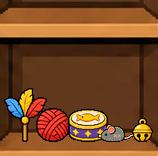
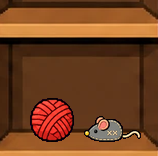
Tofu's cupboard shows just the ball of yarn and the felt mouse on its shelf

Changed region(s): [[0.0253, 0.5641, 0.9873, 0.9231]]

diff --git a/js/cupboard.js b/js/cupboard.js
@@ -1,6 +1,6 @@
 'use strict';
 /* TOFU'S CUPBOARD (Jackie, Nov 18: the star door at the bottom of the right bookcase is "Tofu's cupboard"; the toys are Jackie's sheet,
-   Nov 23). A tap opens it (the star door is out of the way and the toys show standing inside) and a small tray holds what is kept inside: a ball of yarn, a felt mouse, a feather wand, a jingle
+   Nov 23). A tap opens it (the star door is out of the way and a couple of the toys show inside) and a small tray holds what is kept inside: a ball of yarn, a felt mouse, a feather wand, a jingle
    ball and a tin of cat treats. Press one and drag it to the cat, as a treat is dragged to a monster. What the cat does is posture
    only, from its own drawn poses (play bow, pounce, stalk, leap, eating): never an expression.
    - A cat that trusts you plays with it for a couple of seconds, then sits. It will wake up for a toy.

diff --git a/tools/room_build.py b/tools/room_build.py
@@ -251,12 +251,12 @@ def build_cupboard():
     """Tofu's cupboard, open (sheet5.png), and the toys kept in it, each cut out whole.
     Jackie, Nov 25: "it looks strange when the cat food door opens. and empty". The drawing's door is seen at an angle the room is not, so
     it is left out: open, the star door is simply out of the way and the inside shows. The inside is the drawing's lower shelf and what is
-    under it, sized to cover the star door, with the five toys standing in it at a small size, so it is never an empty box."""
+    under it, sized to cover the star door, with a couple of the toys in it (the ball of yarn and the felt mouse), so it is not an empty box."""
     sh=load('sheet5.png');inside=Image.fromarray(sh[316:474,210:364].astype(np.uint8),'RGB').resize((158,156),Image.LANCZOS).convert('RGBA') # between the bookcase's own posts
     toys={'yarn':(757,275,259,185),'mouse':(1088,292,301,140),'wand':(122,646,219,271),'bell':(1170,710,133,155),'tin':(446,714,200,168),'tin_open':(747,718,307,164),'yarn_ball':(484,275,170,172)}
     for n,(x,y,w,h) in toys.items():cut(sh,x,y,w,h,.8,holes=True).save(os.path.join(ROOT,'cub_'+n+'.png'),optimize=True)
     floor=156-14 # the cupboard's floor in the picture: the toys stand on it. name: (left, size)
-    for n,(left,sc) in {'wand':(4,.2),'yarn_ball':(36,.2),'tin':(68,.2),'mouse':(98,.13),'bell':(132,.16)}.items():
+    for n,(left,sc) in {'yarn_ball':(30,.26),'mouse':(84,.19)}.items(): # just a couple (Jackie, Nov 25); all five are still on the tray
         x,y,w,h=toys[n];t=cut(sh,x,y,w,h,sc,holes=True);inside.alpha_composite(t,(left,floor-t.height))
     inside.save(os.path.join(ROOT,'obj_cup_open.png'),optimize=True)
     return {'cup_open':[inside.width,inside.height]}

diff --git a/DECISIONS.md b/DECISIONS.md
@@ -17,7 +17,7 @@ Everything Jackie has decided about Monster Plant, with the reason. Add new entr
 - "Gold coins don't bounce on regular surfaces": the jar's coins bounced on one line at shelf height right across the room. A coin over the bookcase now lands on the jar's shelf; one that goes past the bookcase's edge falls to the floor and bounces there.
 - "The crystal ball is slightly offset when it activates": the mist pictures were about 3% smaller than the painted ball and sat a few pixels low. They are resized and placed so the glass is exactly over the painted glass.
 - "kids should be smaller, and teens relative to them": a kid is about a fifth smaller (the adult's height over 2.4, where it was over 1.9) and a teen is one and a half kids. Adults are unchanged.
-- "it looks strange when the cat food door opens. and empty": the drawn door was seen at an angle the room is not, so it is left out. Open, the star door is simply out of the way, and the five toys stand inside.
+- "it looks strange when the cat food door opens. and empty": the drawn door was seen at an angle the room is not, so it is left out. Open, the star door is simply out of the way. Five toys inside was too many ("maybe put like just a couple of toys in the shelf"), so the ball of yarn and the felt mouse sit there; all five are still on the tray.
 
 ### The tarot deck's new style (Nov 25)
 
